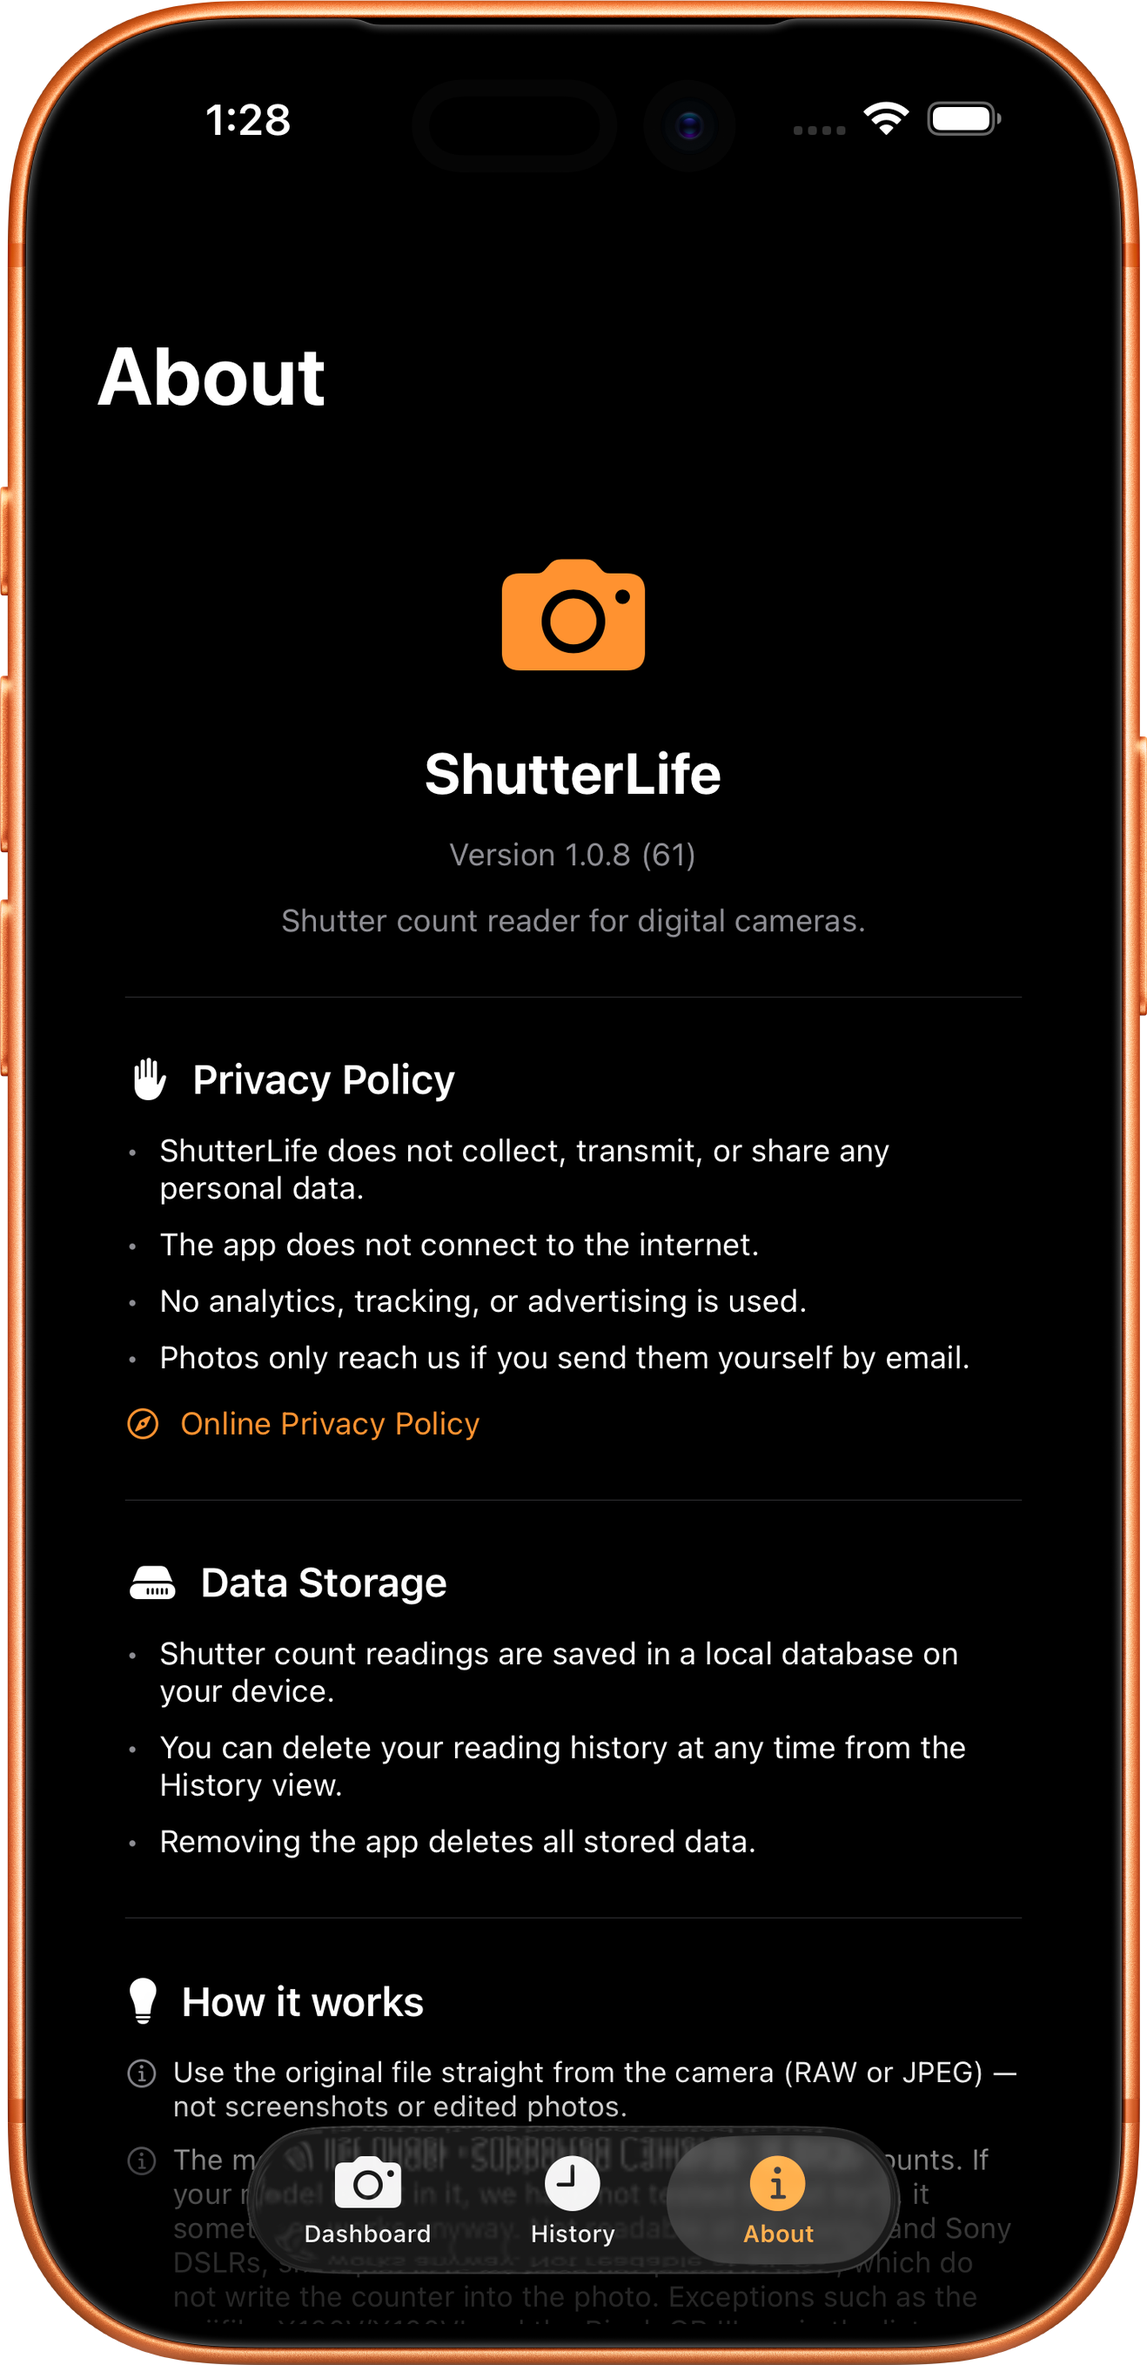
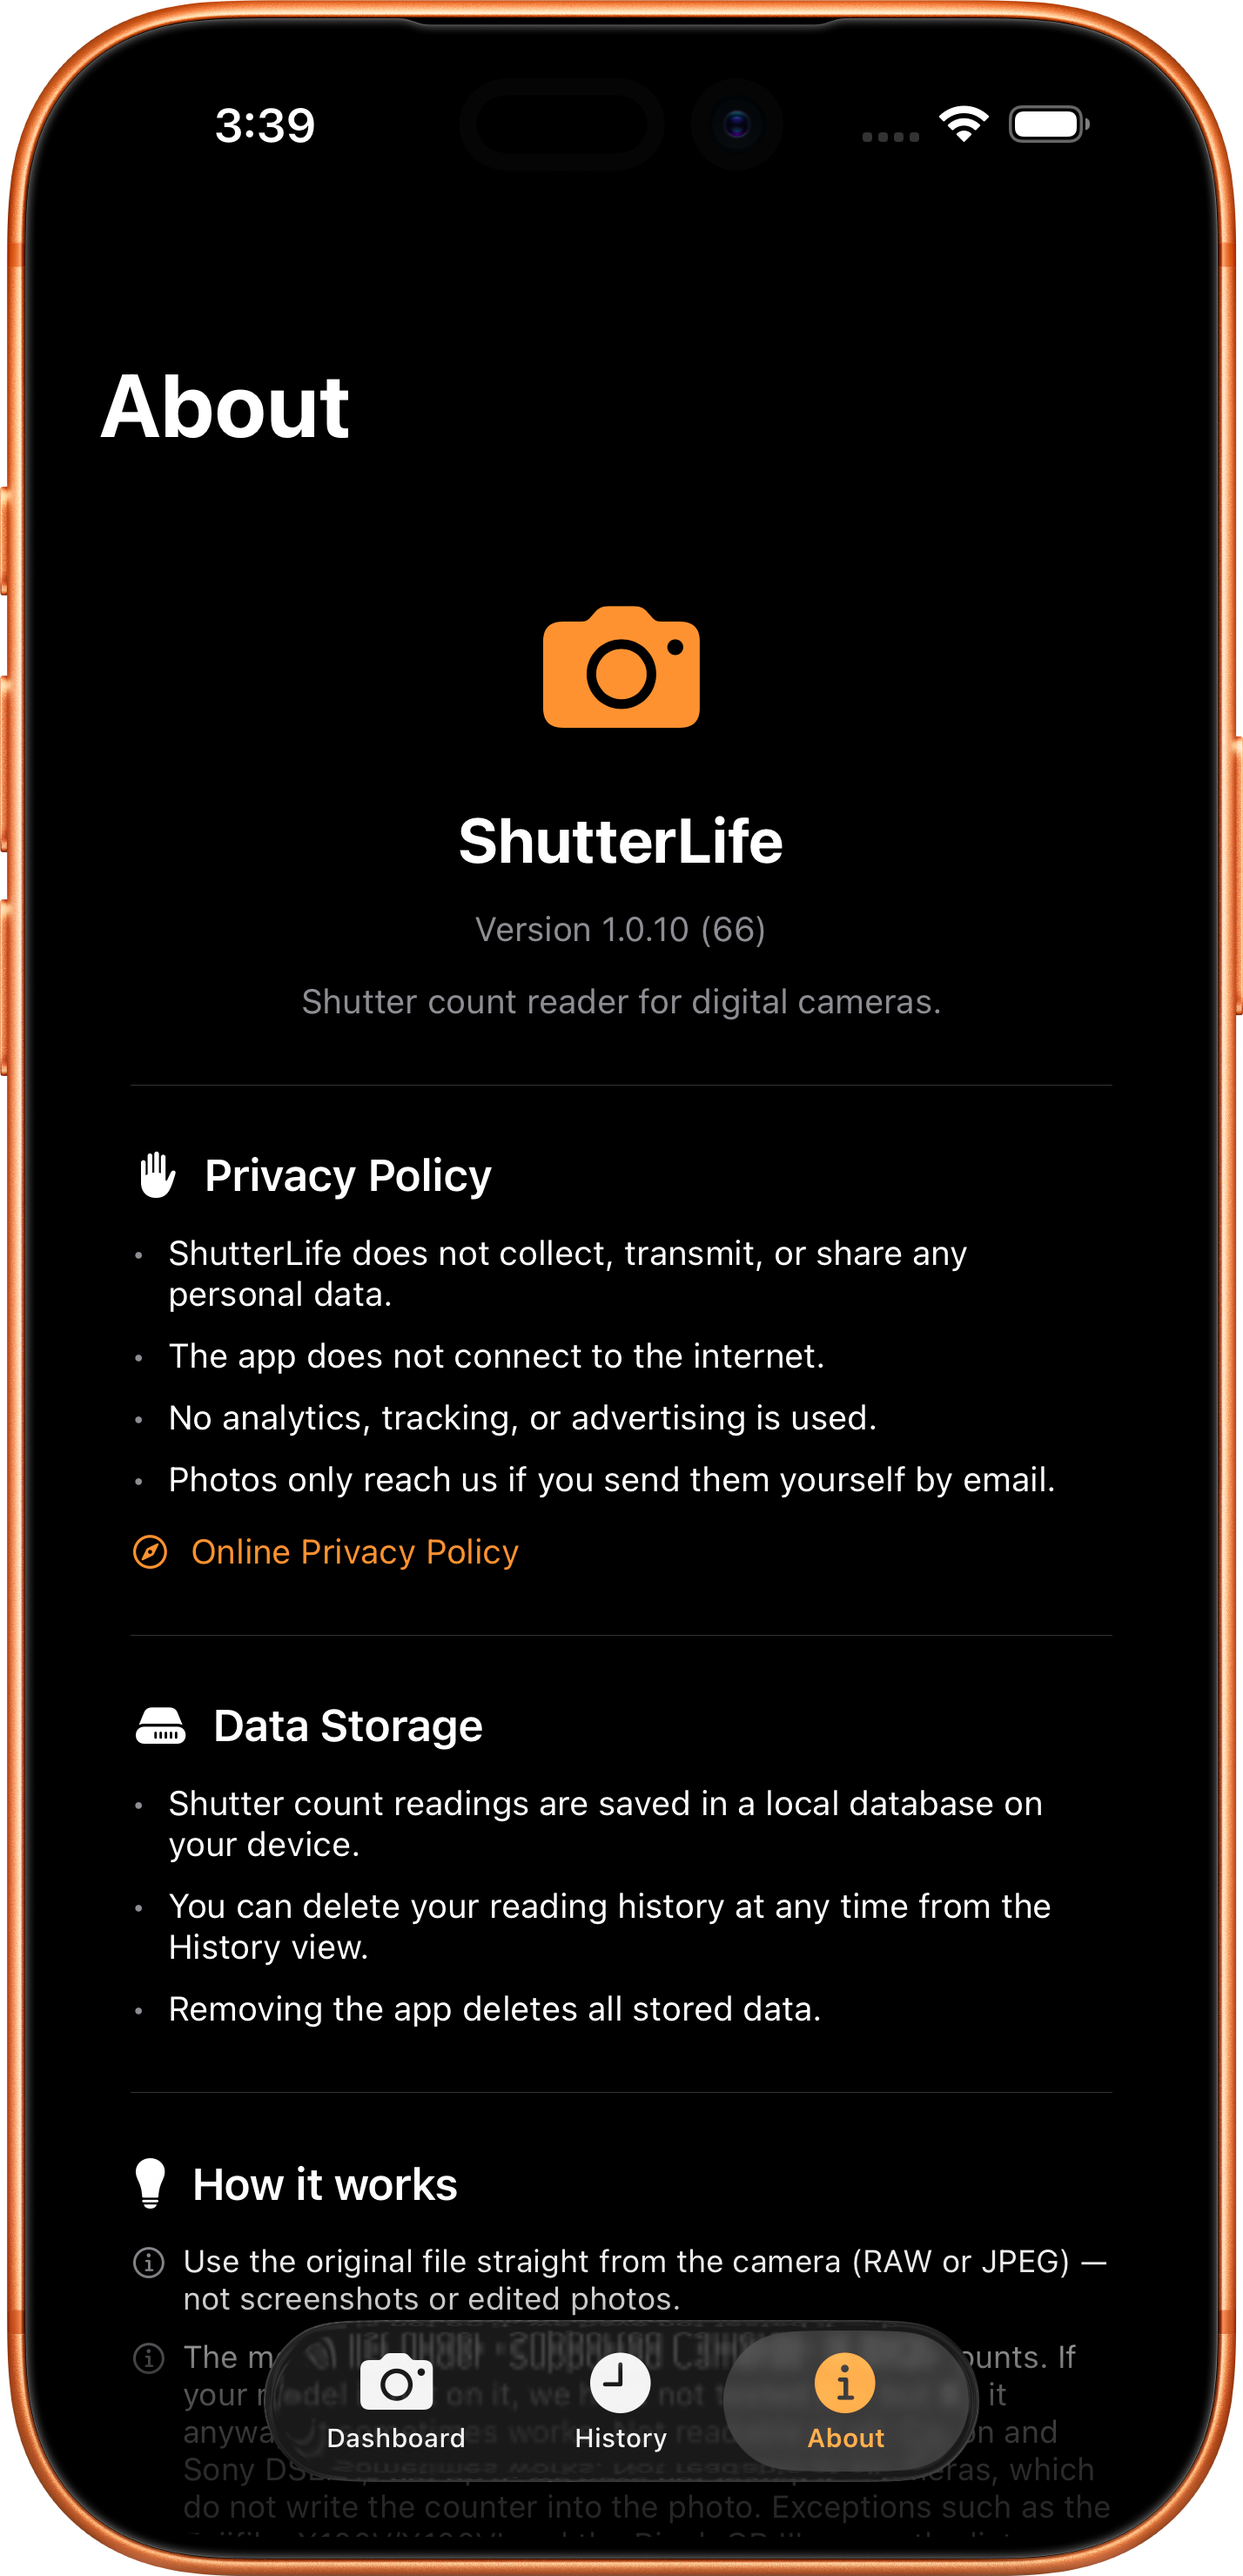
shutterlife: website on 1.0.10 — model list 107 to 115 (matches CameraDatabase), HEIF out of short format mentions (owner 16.09.), description conditional on threshold, about shot 1.0.10 (66)

diff --git a/shutterlife/support/de.html b/shutterlife/support/de.html
@@ -63,29 +63,29 @@
 
         <div class="faq">
             <h3>Welche Kameras werden unterstützt?</h3>
-            <p>ShutterLife unterstützt Kameramodelle von Canon, Nikon, Sony, Fujifilm, Pentax, Leica und Ricoh. Der Auslösezähler wird aus den EXIF-Metadaten deiner Fotos ausgelesen (RAW, HEIF oder JPEG).</p>
+            <p>ShutterLife unterstützt Kameramodelle von Canon, Nikon, Sony, Fujifilm, Pentax, Leica und Ricoh. Der Auslösezähler wird aus den EXIF-Metadaten deiner Fotos ausgelesen (RAW oder JPEG).</p>
 
             <h4>Canon</h4>
-            <p>EOS R5, EOS R6, EOS R6 Mark II, EOS R7, EOS R8, EOS RP, EOS R50</p>
+            <p>EOS R, EOS R5, EOS R6, EOS R6 Mark II, EOS R7, EOS R8, EOS RP, EOS R50</p>
 
             <h4>Nikon</h4>
             <p><strong>Mirrorless:</strong> Z 9, Z 8, Z 7II, Z 7, Z 6III, Z 6II, Z 6, Z 5II, Z 5, Zf, Zfc, Z 50II, Z 50, Z 30</p>
             <p><strong>DSLR:</strong> D6, D5, D4, D850, D810, D800E, D800, D780, D750, D700, D610, D500, D7500, D7200, D7100, D5600, D3500, D3400, D3300</p>
 
             <h4>Sony</h4>
-            <p><strong>Vollformat:</strong> A1, A9 II, A9, A7R V, A7R IVA, A7R IV, A7R IIIA, A7R III, A7R II, A7S III, A7S II, A7 V, A7 IV, A7 III, A7 II, A7C II, A7CR, A7C</p>
+            <p><strong>Vollformat:</strong> A1, A1 II, A9 II, A9, A7R VI, A7R V, A7R IVA, A7R IV, A7R IIIA, A7R III, A7R II, A7S III, A7S II, A7 V, A7 IV, A7 III, A7 II, A7C II, A7CR, A7C</p>
             <p><strong>APS-C:</strong> A6700, A6600, A6500, A6400, A6300, A6100, A6000</p>
             <p><strong>Cinema:</strong> FX3, ZV-E10</p>
 
             <h4>Fujifilm</h4>
-            <p>X-T5, X-T4, X-T3, X-T2, X-T30 II, X-H2S, X-H2, X-H1, X-S20, X-S10, X-Pro3, X-E4, X100VI, X100V, GFX100 II</p>
+            <p>X-T5, X-T4, X-T3, X-T2, X-T1, X-T30 II, X-T20, X-H2S, X-H2, X-H1, X-S20, X-S10, X-Pro3, X-E4, X100VI, X100V, GFX100 II, GFX50S II</p>
 
             <h4>Pentax</h4>
             <p><strong>Vollformat &amp; Mittelformat:</strong> K-1 Mark II, K-1, 645Z, 645D</p>
             <p><strong>APS-C:</strong> K-3 Mark III, K-3 II, K-3, KF, KP, K-70, K-S2, K-5 II, K-5, K-7, K-50, K-30</p>
 
             <h4>Leica</h4>
-            <p>Q3, Q2, Q2 Monochrom, SL3, SL3-S, SL2, CL, D-Lux 8</p>
+            <p>Q3, Q3 43, Q2, Q2 Monochrom, SL3, SL3-S, SL2, SL2-S, CL, D-Lux 8</p>
 
             <h4>Ricoh</h4>
             <p>GR III</p>

diff --git a/shutterlife/support/index.html b/shutterlife/support/index.html
@@ -63,29 +63,29 @@
 
         <div class="faq">
             <h3>Which cameras are supported?</h3>
-            <p>ShutterLife supports camera models from Canon, Nikon, Sony, Fujifilm, Pentax, Leica and Ricoh. The shutter count is read from the EXIF metadata embedded in your photos (RAW, HEIF or JPEG).</p>
+            <p>ShutterLife supports camera models from Canon, Nikon, Sony, Fujifilm, Pentax, Leica and Ricoh. The shutter count is read from the EXIF metadata embedded in your photos (RAW or JPEG).</p>
 
             <h4>Canon</h4>
-            <p>EOS R5, EOS R6, EOS R6 Mark II, EOS R7, EOS R8, EOS RP, EOS R50</p>
+            <p>EOS R, EOS R5, EOS R6, EOS R6 Mark II, EOS R7, EOS R8, EOS RP, EOS R50</p>
 
             <h4>Nikon</h4>
             <p><strong>Mirrorless:</strong> Z 9, Z 8, Z 7II, Z 7, Z 6III, Z 6II, Z 6, Z 5II, Z 5, Zf, Zfc, Z 50II, Z 50, Z 30</p>
             <p><strong>DSLR:</strong> D6, D5, D4, D850, D810, D800E, D800, D780, D750, D700, D610, D500, D7500, D7200, D7100, D5600, D3500, D3400, D3300</p>
 
             <h4>Sony</h4>
-            <p><strong>Full-Frame:</strong> A1, A9 II, A9, A7R V, A7R IVA, A7R IV, A7R IIIA, A7R III, A7R II, A7S III, A7S II, A7 V, A7 IV, A7 III, A7 II, A7C II, A7CR, A7C</p>
+            <p><strong>Full-Frame:</strong> A1, A1 II, A9 II, A9, A7R VI, A7R V, A7R IVA, A7R IV, A7R IIIA, A7R III, A7R II, A7S III, A7S II, A7 V, A7 IV, A7 III, A7 II, A7C II, A7CR, A7C</p>
             <p><strong>APS-C:</strong> A6700, A6600, A6500, A6400, A6300, A6100, A6000</p>
             <p><strong>Cinema:</strong> FX3, ZV-E10</p>
 
             <h4>Fujifilm</h4>
-            <p>X-T5, X-T4, X-T3, X-T2, X-T30 II, X-H2S, X-H2, X-H1, X-S20, X-S10, X-Pro3, X-E4, X100VI, X100V, GFX100 II</p>
+            <p>X-T5, X-T4, X-T3, X-T2, X-T1, X-T30 II, X-T20, X-H2S, X-H2, X-H1, X-S20, X-S10, X-Pro3, X-E4, X100VI, X100V, GFX100 II, GFX50S II</p>
 
             <h4>Pentax</h4>
             <p><strong>Full-Frame &amp; Medium Format:</strong> K-1 Mark II, K-1, 645Z, 645D</p>
             <p><strong>APS-C:</strong> K-3 Mark III, K-3 II, K-3, KF, KP, K-70, K-S2, K-5 II, K-5, K-7, K-50, K-30</p>
 
             <h4>Leica</h4>
-            <p>Q3, Q2, Q2 Monochrom, SL3, SL3-S, SL2, CL, D-Lux 8</p>
+            <p>Q3, Q3 43, Q2, Q2 Monochrom, SL3, SL3-S, SL2, SL2-S, CL, D-Lux 8</p>
 
             <h4>Ricoh</h4>
             <p>GR III</p>

diff --git a/shutterlife/terms/de.html b/shutterlife/terms/de.html
@@ -51,14 +51,14 @@
             <a href="../../" class="back-link">&larr; Alle Apps</a>
             <p class="subpage-eyebrow">ShutterLife</p>
             <h1 class="page-title">Wichtige Hinweise</h1>
-            <p class="date">Zuletzt aktualisiert: 15. September 2026</p>
+            <p class="date">Zuletzt aktualisiert: 18. September 2026</p>
 
             <article class="legal-content">
 
         <p>Diese Hinweise erklären, wie ShutterLife funktioniert und wo die Grenzen der Nutzung liegen. Sie dienen der Transparenz. Es sind keine Bedingungen, denen du zustimmen musst, und sie begründen keinen Vertrag.</p>
 
         <h2>Beschreibung</h2>
-        <p>ShutterLife ist ein Kamera-Auslösezähler für Fotografen. Die App liest EXIF-Daten aus Kamerabildern (RAW, HEIF und JPEG), um die Anzahl der Auslösungen anzuzeigen und sie ins Verhältnis zur vom Hersteller geprüften Mindestschwelle des Verschlusses zu setzen. Verfügbar für iOS und macOS.</p>
+        <p>ShutterLife ist ein Kamera-Auslösezähler für Fotografen. Die App liest EXIF-Daten aus Kamerabildern (RAW und JPEG), um die Anzahl der Auslösungen anzuzeigen und sie, wo der Hersteller eine geprüfte Mindestschwelle nennt und der Zähler Auslösungen zählt, ins Verhältnis dazu zu setzen. Verfügbar für iOS und macOS.</p>
 
         <h2>Nutzung der App</h2>
         <ul>

diff --git a/shutterlife/terms/index.html b/shutterlife/terms/index.html
@@ -51,14 +51,14 @@
             <a href="../../" class="back-link">&larr; All Apps</a>
             <p class="subpage-eyebrow">ShutterLife</p>
             <h1 class="page-title">Important Notes</h1>
-            <p class="date">Last updated: September 15, 2026</p>
+            <p class="date">Last updated: September 18, 2026</p>
 
             <article class="legal-content">
 
         <p>These notes explain how ShutterLife works and the limits of its use. They are provided for transparency; they are not terms you have to accept and do not form a contract.</p>
 
         <h2>Description</h2>
-        <p>ShutterLife is a camera shutter count reader for photographers. It reads EXIF data from camera images (RAW, HEIF and JPEG) to display the number of shutter actuations and relate them to the manufacturer's tested minimum threshold for the shutter. Available for iOS and macOS.</p>
+        <p>ShutterLife is a camera shutter count reader for photographers. It reads EXIF data from camera images (RAW and JPEG) to display the number of shutter actuations and, where the manufacturer states a tested minimum threshold and the counter tracks actuations, relate them to it. Available for iOS and macOS.</p>
 
         <h2>Use of the App</h2>
         <ul>
